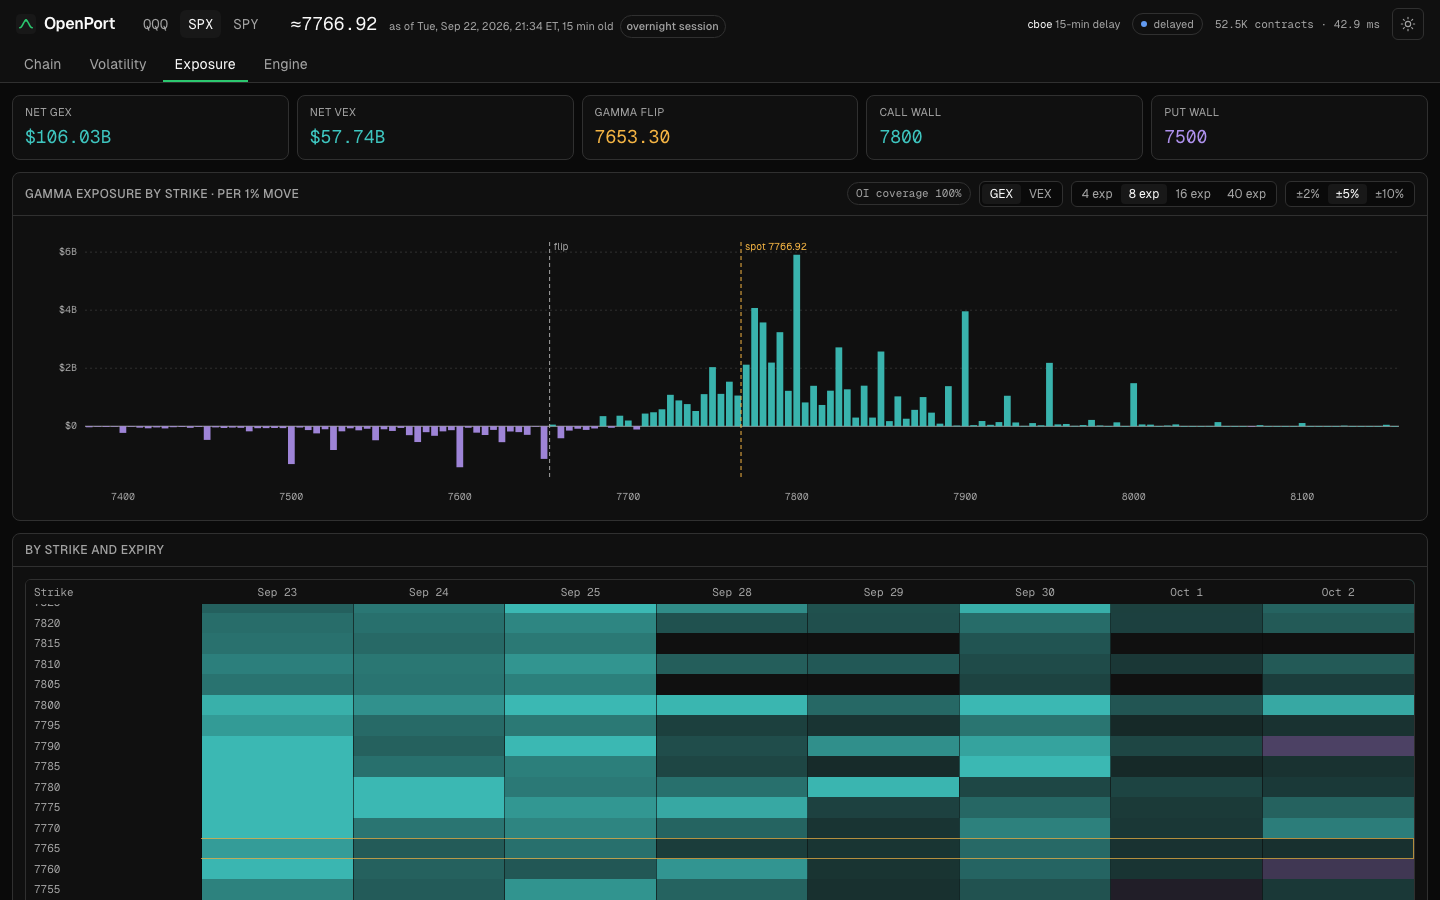
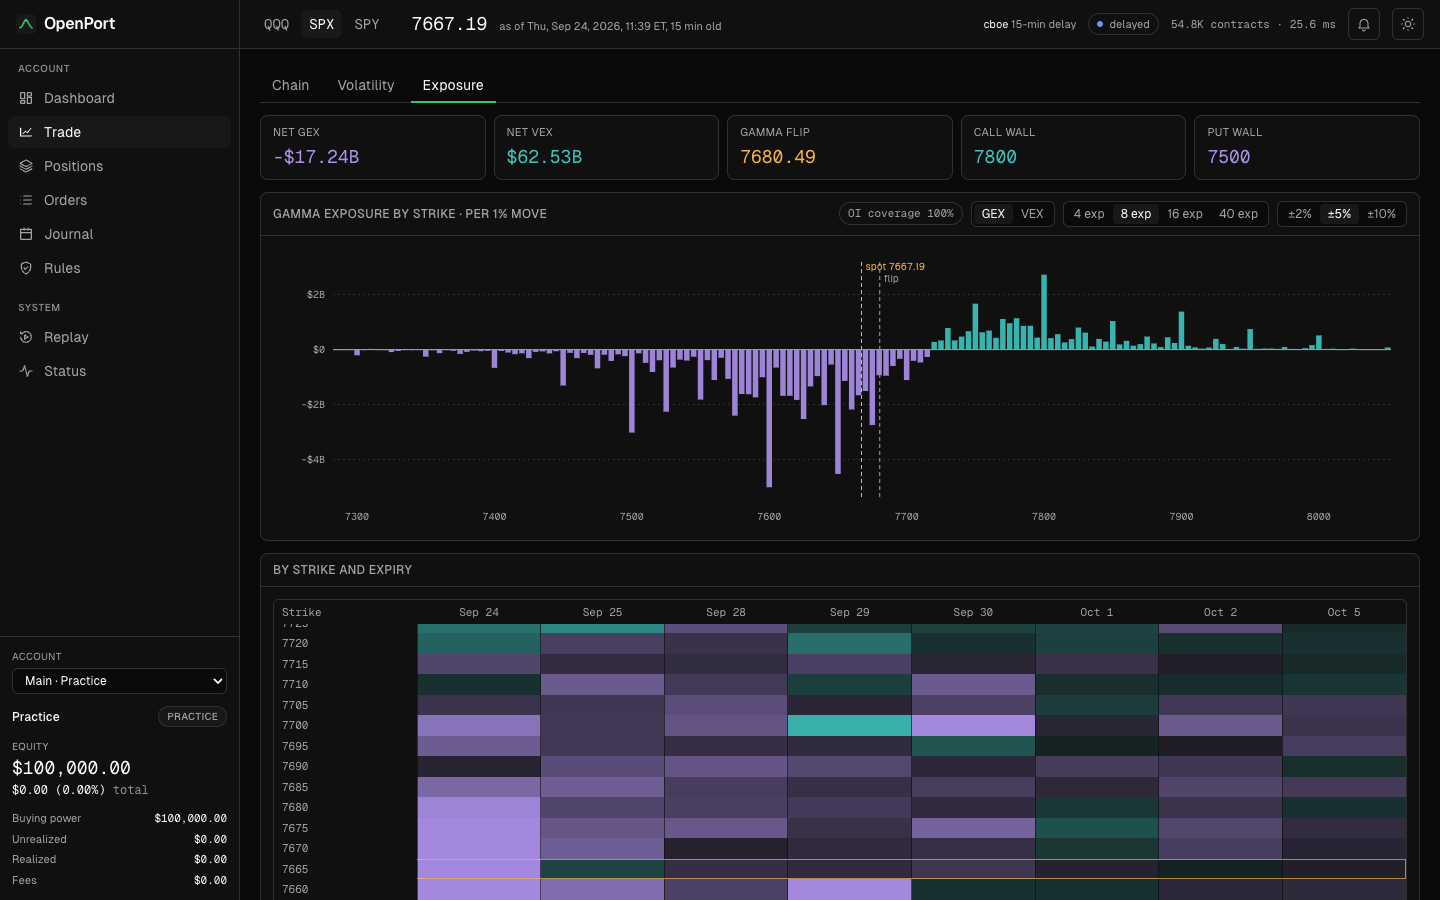
README: current screenshots, the demo GIF and numbers re-measured on live data
The screenshots showed the terminal before the Trade page; they now show it,
Volatility and Exposure on Cboe's delayed data from this morning. The demo
GIF walks the five demo days, then SPX and QQQ trading one at 120x. The SPX
pass (30,182 options, 63 expiries, about 40 ms), the IV comparison with Cboe
(0.012, 0.030 and 0.028 vol points) and theta (0.9% to 3%) were measured
again today, and the test counts are 462 and 286. Marker labels on the bar
and line charts stack instead of overlapping, as spot and the gamma flip did.

diff --git a/web/src/charts/BarChart.tsx b/web/src/charts/BarChart.tsx
@@ -1,6 +1,6 @@
 import { useMemo, useState } from "react"
 import type { Marker } from "./LineChart"
-import { extent, linear, niceTicks, pad } from "./scale"
+import { extent, labelRows, linear, niceTicks, pad } from "./scale"
 import { useSize } from "./useSize"
 
 interface Props {
@@ -26,8 +26,9 @@ export function BarChart({ bars, markers = [], height = 280, formatX, formatY }:
     const x = linear([xDomain[0] - step / 2, xDomain[1] + step / 2], [margin.left, width - margin.right])
     const y = linear(pad(yDomain, 0.06), [height - margin.bottom, margin.top])
     const barWidth = Math.max(1, Math.abs(x(step) - x(0)) * 0.8)
-    return { x, y, barWidth, xTicks: niceTicks(...xDomain, Math.max(2, Math.floor(width / 110))), yTicks: niceTicks(...y.domain, 5) }
-  }, [bars, width, height])
+    const rows = labelRows(markers.map((m) => ({ x: x(m.x), label: m.label })))
+    return { x, y, barWidth, rows, xTicks: niceTicks(...xDomain, Math.max(2, Math.floor(width / 110))), yTicks: niceTicks(...y.domain, 5) }
+  }, [bars, markers, width, height])
 
   const hovered = hover == null ? null : bars[hover]
 
@@ -64,10 +65,10 @@ export function BarChart({ bars, markers = [], height = 280, formatX, formatY }:
               />
             )
           })}
-          {markers.map((m) => (
+          {markers.map((m, i) => (
             <g key={m.label}>
               <line x1={layout.x(m.x)} x2={layout.x(m.x)} y1={margin.top} y2={height - margin.bottom} style={{ stroke: m.color }} strokeDasharray="4 3" />
-              <text x={layout.x(m.x) + 4} y={margin.top + 8} style={{ fill: m.color }} className="text-[10px]">
+              <text x={layout.x(m.x) + 4} y={margin.top + 8 + 12 * layout.rows[i]!} style={{ fill: m.color, stroke: "var(--panel)", strokeWidth: 3, paintOrder: "stroke" }} className="text-[10px]">
                 {m.label}
               </text>
             </g>

diff --git a/web/src/charts/LineChart.tsx b/web/src/charts/LineChart.tsx
@@ -1,5 +1,5 @@
 import { useMemo, useState, type PointerEvent } from "react"
-import { extent, linear, niceTicks, pad } from "./scale"
+import { extent, labelRows, linear, niceTicks, pad } from "./scale"
 import { useSize } from "./useSize"
 
 export interface SeriesPoint {
@@ -70,8 +70,9 @@ export function LineChart({ series, markers = [], references = [], height = 320,
     const ticks = xTicks
       ? xTicks.filter((t) => t >= xDomain[0] && t <= xDomain[1])
       : niceTicks(...xDomain, Math.max(2, Math.floor(width / 110)))
-    return { x, y, xTicks: ticks, yTicks: niceTicks(...y.domain, 5) }
-  }, [series, references, width, height, xTicks, left])
+    const rows = labelRows(markers.map((m) => ({ x: x(m.x), label: m.label })))
+    return { x, y, rows, xTicks: ticks, yTicks: niceTicks(...y.domain, 5) }
+  }, [series, references, markers, width, height, xTicks, left])
 
   const area = (points: SeriesPoint[]) => {
     if (!layout) return ""
@@ -156,10 +157,10 @@ export function LineChart({ series, markers = [], references = [], height = 320,
               {xLabel}
             </text>
           )}
-          {markers.map((m) => (
+          {markers.map((m, i) => (
             <g key={m.label}>
               <line x1={layout.x(m.x)} x2={layout.x(m.x)} y1={margin.top} y2={height - margin.bottom} style={{ stroke: m.color }} strokeDasharray="4 3" strokeOpacity={0.8} />
-              <text x={layout.x(m.x) + 4} y={margin.top + 10} style={{ fill: m.color }} className="text-[10px]">
+              <text x={layout.x(m.x) + 4} y={margin.top + 10 + 12 * layout.rows[i]!} style={{ fill: m.color, stroke: "var(--panel)", strokeWidth: 3, paintOrder: "stroke" }} className="text-[10px]">
                 {m.label}
               </text>
             </g>

diff --git a/web/src/lib/lib.test.ts b/web/src/lib/lib.test.ts
@@ -1,5 +1,5 @@
 import { describe, expect, it } from "vitest"
-import { extent, linear, niceTicks } from "../charts/scale"
+import { extent, labelRows, linear, niceTicks } from "../charts/scale"
 import { flashDirection } from "./flash"
 import { count, days, expiryLabel, fixed, price, vol } from "./format"
 import { formatRoute, parseRoute } from "./route"
@@ -68,6 +68,13 @@ describe("scale", () => {
   it("ignores missing values in extents", () => {
     expect(extent([3, null, 1, Number.NaN, 2])).toEqual([1, 3])
     expect(extent([null])).toBeNull()
+  })
+
+  it("stacks marker labels that would run into each other", () => {
+    // "spot 7667.43" at 500 runs to about 576, so "flip" at 520 drops a row; one far off does not.
+    expect(labelRows([{ x: 520, label: "flip" }, { x: 500, label: "spot 7667.43" }, { x: 700, label: "wall" }])).toEqual([1, 0, 0])
+    expect(labelRows([{ x: 100, label: "a" }, { x: 104, label: "b" }, { x: 108, label: "c" }])).toEqual([0, 1, 2])
+    expect(labelRows([{ x: 100, label: "a" }, { x: 106, label: "b" }, { x: 112, label: "c" }])).toEqual([0, 1, 0])
   })
 })
 

diff --git a/web/src/charts/scale.ts b/web/src/charts/scale.ts
@@ -44,3 +44,21 @@ export function pad([lo, hi]: [number, number], fraction = 0.05): [number, numbe
   const span = hi - lo || Math.abs(hi) || 1
   return [lo - span * fraction, hi + span * fraction]
 }
+
+/**
+ * A row for each marker's label, left to right, so a label that would run into
+ * the one before it drops to the next row: labels start 4px right of their
+ * marker and take about `charWidth` a character.
+ */
+export function labelRows(markers: { x: number; label: string }[], charWidth = 6): number[] {
+  const rows = markers.map(() => 0)
+  const ends: number[] = []  // where each row's last label ends
+  for (const i of markers.map((_, i) => i).sort((a, b) => markers[a]!.x - markers[b]!.x)) {
+    const start = markers[i]!.x + 4
+    let row = 0
+    while (row < ends.length && start < ends[row]! + 6) row++
+    ends[row] = start + markers[i]!.label.length * charWidth
+    rows[i] = row
+  }
+  return rows
+}

diff --git a/README.md b/README.md
@@ -12,7 +12,7 @@ chart of the underlying and replays of recorded days.
 One C++20 binary runs the feed, the analytics engine, the simulator and the web
 terminal. Your API keys, your data and your trades stay on your machine.
 
-![SPX option chain during Cboe's overnight session](docs/screenshots/chain-dark.png)
+![The Trade page: SPX five-minute candles and the option chain on Cboe's delayed data](docs/screenshots/trade-dark.png)
 
 | Volatility (light theme) | Exposure |
 | --- | --- |
@@ -23,22 +23,23 @@ terminal. Your API keys, your data and your trades stay on your machine.
 - **One C++20 process** runs the feed, the analytics engine, the simulator and the web
   server; the terminal is React and TypeScript. [Architecture](docs/architecture.md).
 - **Implied volatility** in about 0.4 µs and 5.4 Newton iterations per option, and a
-  full analytics pass over the SPX chain (29,942 options, 62 expiries) in about 55 ms.
+  full analytics pass over the SPX chain (30,182 options, 63 expiries) in about 40 ms.
 - **Within a few hundredths of a vol point** of Cboe's published IVs: median
-  differences of 0.009 (SPX), 0.025 (QQQ) and 0.037 (SPY) out of the money.
+  differences of 0.012 (SPX), 0.030 (QQQ) and 0.028 (SPY) out of the money.
 - **A prop-firm-style simulator**: orders fill against the quotes the feed displays,
   under evaluation rules, with a hash-chained journal that survives restarts.
-- **440 C++ and 280 web tests**, built in CI with GCC 13 on Ubuntu and Apple Clang on
+- **462 C++ and 286 web tests**, built in CI with GCC 13 on Ubuntu and Apple Clang on
   macOS, warnings as errors.
 
-Timings are medians on an Apple M2 Max: the IV solve from `openport_bench` on
-2026-09-24, the SPX pass and the Cboe comparison on live data on 2026-09-22.
+Timings are medians on an Apple M2 Max: the IV solve from `openport_bench`, and the SPX
+pass (over 23 passes) and the Cboe comparison on live data during the session, all on
+2026-09-24.
 
 No market open, or no data? The **demo market** plays simulated trading days you can
 trade (a reversal, a trend, a chop, a selloff and an overnight session in SPX, SPY and
 QQQ options), with generated prices labelled as simulated on every page:
 
-![The demo market: a simulated SPX session trading at 60 times real time](docs/screenshots/demo-market.gif)
+![The demo market: its five simulated days, then SPX and QQQ trading one of them at 120 times real time](docs/screenshots/demo-market.gif)
 
 ## What you get
 
@@ -255,16 +256,17 @@ Every value is range-checked; `openportd --help` lists every flag, and the
   drown out everything else. The gamma flip is where total GEX changes sign, found by
   bisection over the same positions as the total.
 
-Checked against Cboe's own published IVs on 2026-09-22 after the close: across every
+Checked against Cboe's own published IVs on 2026-09-24 during the session: across every
 expiry, the median difference on out-of-the-money options within 10% of the forward is
-0.009 vol points for SPX, 0.025 for QQQ and 0.037 for SPY. Theta matches Cboe's within
-about 1.3%.
+0.012 vol points for SPX, 0.030 for QQQ and 0.028 for SPY. Theta matches Cboe's to a
+median 0.9% for SPX, and 2% to 3% for QQQ and SPY, whose Greeks here are European ones
+at the de-Americanised IV.
 
 ## Performance
 
-On an Apple M2 Max, a full analytics pass over the SPX chain (29,942 options across 62
-expiries) takes about 55 ms, and SPY with de-Americanisation (12,066 options across 31
-expiries) about 33 ms. The engine recomputes at most once a second, and only for
+On an Apple M2 Max, a full analytics pass over the SPX chain (30,182 options across 63
+expiries) takes about 40 ms, and SPY with de-Americanisation (13,028 options across 33
+expiries) about 29 ms. The engine recomputes at most once a second, and only for
 underlyings whose data or rate curve changed; each pass publishes an immutable snapshot,
 so HTTP readers never block the feed. While the engine is busy, the queue from the
 providers keeps only the latest quote per contract.

diff --git a/docs/architecture.md b/docs/architecture.md
@@ -69,9 +69,10 @@ flowchart LR
 
 ## Tests
 
-440 GoogleTest cases cover pricing against reference values, the parity fit and SVI,
+462 GoogleTest cases cover pricing against reference values, the parity fit and SVI,
 provider parsing, the queue, recording and replay, the simulator's rules, journal
-recovery and tampering, and the HTTP API; 280 Vitest cases cover the terminal. CI
+recovery and tampering, the calendar and the HTTP API; 286 Vitest cases cover the
+terminal. CI
 builds with GCC 13 on Ubuntu and Apple Clang on macOS, both with warnings as errors,
 and smoke-tests the Docker image.
 
